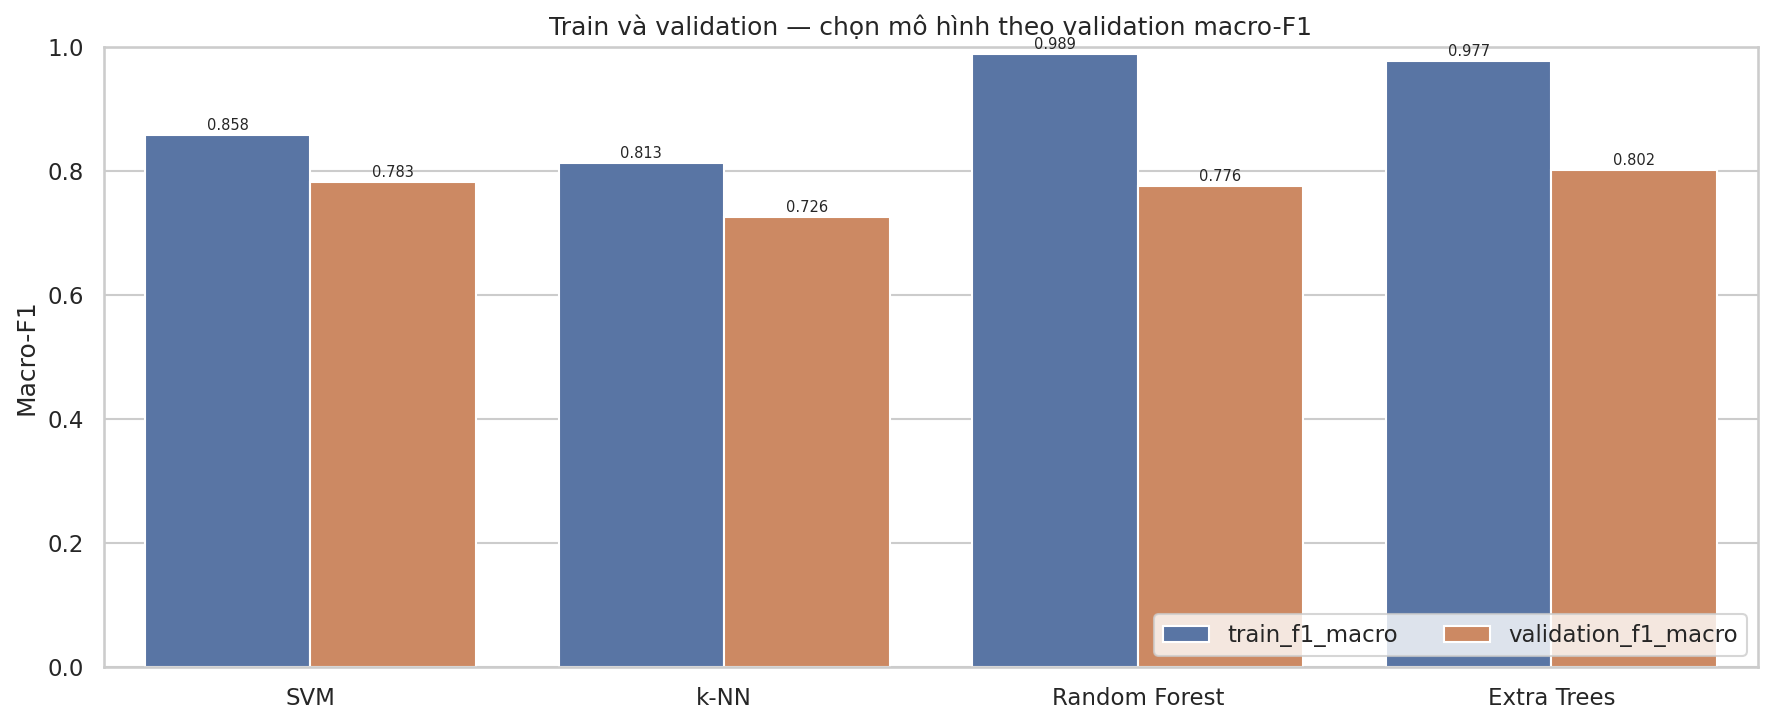
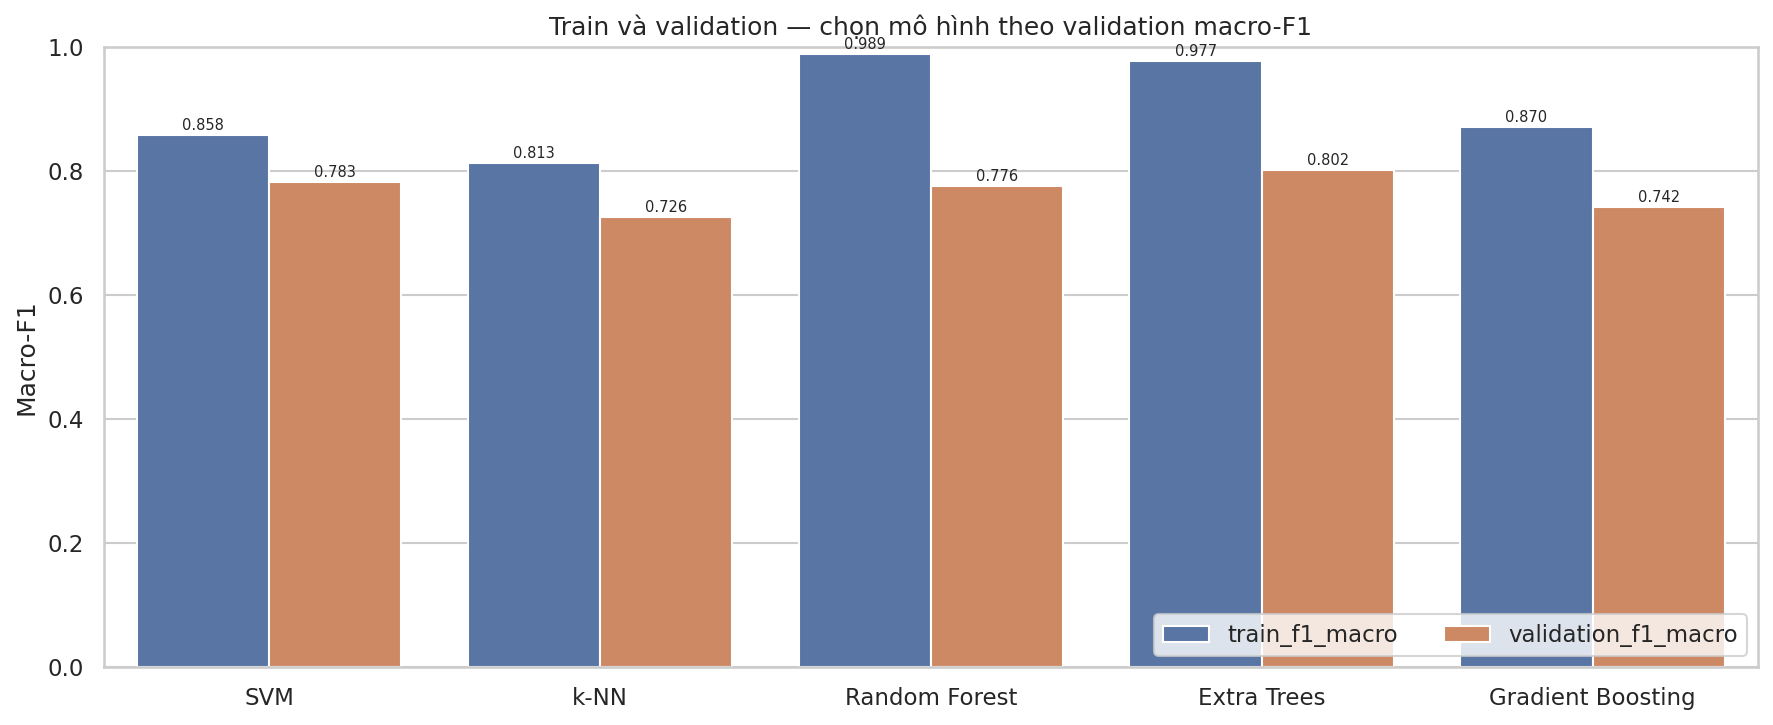
train: [5/5] Gradient Boosting — validation macro-F1=0.7424

diff --git a/reports/results.md b/reports/results.md
@@ -2,9 +2,10 @@
 
 Mô hình được chọn theo validation macro-F1; test chỉ đánh giá mô hình được chọn.
 
-| model         |   train_f1_macro |   validation_f1_macro |   f1_macro_gap | test_accuracy   | test_balanced_accuracy   | test_f1_macro   | test_f1_weighted   |
-|:--------------|-----------------:|----------------------:|---------------:|:----------------|:-------------------------|:----------------|:-------------------|
-| Extra Trees   |           0.9773 |                0.8018 |         0.1755 |                 |                          |                 |                    |
-| SVM           |           0.8583 |                0.7826 |         0.0756 |                 |                          |                 |                    |
-| Random Forest |           0.9885 |                0.7763 |         0.2122 |                 |                          |                 |                    |
-| k-NN          |           0.813  |                0.7264 |         0.0866 |                 |                          |                 |                    |
+| model             |   train_f1_macro |   validation_f1_macro |   f1_macro_gap | test_accuracy   | test_balanced_accuracy   | test_f1_macro   | test_f1_weighted   |
+|:------------------|-----------------:|----------------------:|---------------:|:----------------|:-------------------------|:----------------|:-------------------|
+| Extra Trees       |           0.9773 |                0.8018 |         0.1755 |                 |                          |                 |                    |
+| SVM               |           0.8583 |                0.7826 |         0.0756 |                 |                          |                 |                    |
+| Random Forest     |           0.9885 |                0.7763 |         0.2122 |                 |                          |                 |                    |
+| Gradient Boosting |           0.8703 |                0.7424 |         0.1279 |                 |                          |                 |                    |
+| k-NN              |           0.813  |                0.7264 |         0.0866 |                 |                          |                 |                    |
